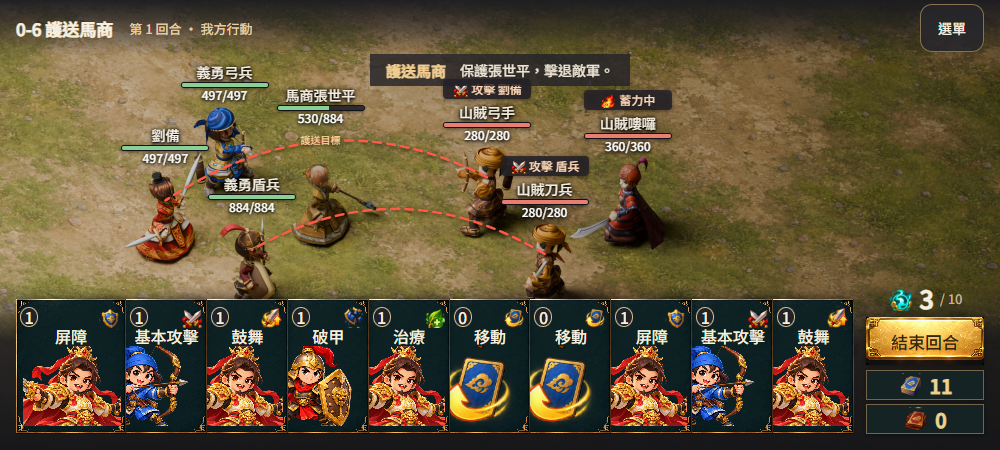
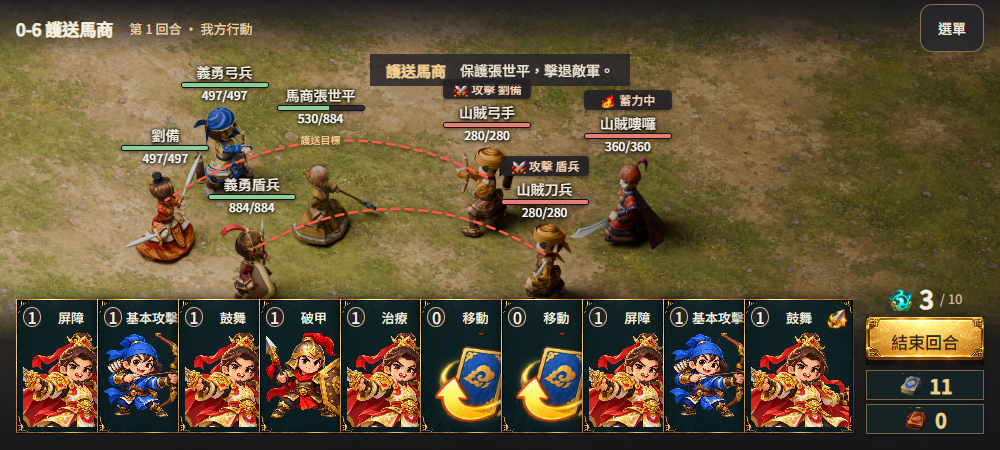
固定費用名稱圖示牌頭並恢復右覆左與圖像化詳情

Changed region(s): [[0.0, 0.6533, 0.868, 0.9644]]

diff --git a/docs/ui-commercial-review/battle-revision-04/battle.js b/docs/ui-commercial-review/battle-revision-04/battle.js
@@ -5,8 +5,8 @@ const units={liubei:['劉備',497,497,''],r_shield:['義勇盾兵',884,884,''],r
 const typeIcon=c=>c.name==='移動'?'draw':({shield:'armor',damage:'damage',heal:'heal',buff:'status_atkup',debuff:'status_armorbreak'}[c.cls]);
 const face=n=>`../../../client/Assets/Resources/ChibiSkin/face_${n}.png`;
 function fit(){const w=ratio==='20:9'?1000:800,wrap=document.querySelector('#wrap'),scene=document.querySelector('#scene');if(params.has('export')){wrap.style.width=w+'px';wrap.style.height='450px';return;}const scale=wrap.clientWidth/w;scene.style.transform=`scale(${scale})`;wrap.style.height=450*scale+'px';}
-function details(){const el=document.querySelector('#details');el.classList.toggle('empty',selected<0);if(selected<0){el.innerHTML='';return;}const c=cards[selected%cards.length];el.innerHTML=`<div class="detail-meta"><span>費用 ${c.cost}</span><span>${c.type}</span></div><h2>${c.name}</h2><div class="detail-owner">持有人 · ${c.owner}</div><p>${c.effect}</p><small class="note">${c.detail}</small>`;}
-function hand(){const el=document.querySelector('#hand'),w=el.clientWidth,step=Math.max(56,Math.min(120,(w-110)/Math.max(1,count-1)));el.innerHTML=Array.from({length:count},(_,i)=>{const c=cards[i%cards.length];return `<button class="card ${i===selected?'selected':''}" style="left:${i*step}px;z-index:${count-i};--peek:${i===0?110:Math.min(110,step)}px" data-card="${i}" aria-label="${c.name}，${c.type}，費用${c.cost}，持有人${c.owner}" aria-pressed="${i===selected}"><span class="cost">${c.cost}</span><span class="type ${c.cls}" title="${c.type}"><img src="../../../client/Assets/Resources/ChibiSkin/${typeIcon(c)}.png" alt="${c.type}"></span><span class="name">${c.name}</span><img class="card-art" src="../../../client/Assets/Resources/ChibiSkin/${c.name==='移動'?'draw':'bust_'+c.face}.png" alt=""></button>`;}).join('');el.querySelectorAll('button').forEach(b=>b.onclick=()=>{selected=selected===Number(b.dataset.card)?-1:Number(b.dataset.card);hand();details();document.querySelector('#status').textContent=selected<0?'已收回卡牌詳情。':'已查看 '+cards[selected%7].name+'；未執行出牌。';});}
+function details(){const el=document.querySelector('#details');el.classList.toggle('empty',selected<0);if(selected<0){el.innerHTML='';return;}const c=cards[selected%cards.length],value={shield:'111%',damage:'100%',heal:'167%',buff:'強化',debuff:'削弱'}[c.cls],move=c.name==='移動',target=move?'可達位置':['damage','debuff'].includes(c.cls)?'敵方單體':'友方單體';el.innerHTML=`<div class="skill-heading"><span class="detail-cost">${c.cost}</span><h2>${c.name}</h2><img src="../../../client/Assets/Resources/ChibiSkin/${typeIcon(c)}.png" alt="${c.type}"></div><div class="skill-portrait"><img src="../../../client/Assets/Resources/ChibiSkin/${move?'draw':'bust_'+c.face}.png" alt=""><span>${c.owner}</span></div><div class="effect-value"><img src="../../../client/Assets/Resources/ChibiSkin/${typeIcon(c)}.png" alt=""><div><small>${c.type}</small><strong>${move?'走位':value}</strong></div></div><div class="effect-target">${target}</div>`;}
+function hand(){const el=document.querySelector('#hand'),w=el.clientWidth,step=Math.max(56,Math.min(120,(w-110)/Math.max(1,count-1)));el.innerHTML=Array.from({length:count},(_,i)=>{const c=cards[i%cards.length];return `<button class="card ${i===selected?'selected':''}" style="left:${i*step}px;z-index:${i}" data-card="${i}" aria-label="${c.name}，${c.type}，費用${c.cost}，持有人${c.owner}" aria-pressed="${i===selected}"><span class="cost">${c.cost}</span><span class="type ${c.cls}" title="${c.type}"><img src="../../../client/Assets/Resources/ChibiSkin/${typeIcon(c)}.png" alt="${c.type}"></span><span class="name">${c.name}</span><img class="card-art" src="../../../client/Assets/Resources/ChibiSkin/${c.name==='移動'?'draw':'bust_'+c.face}.png" alt=""></button>`;}).join('');el.querySelectorAll('button').forEach(b=>b.onclick=()=>{selected=selected===Number(b.dataset.card)?-1:Number(b.dataset.card);hand();details();document.querySelector('#status').textContent=selected<0?'已收回卡牌詳情。':'已查看 '+cards[selected%7].name+'；未執行出牌。';});}
 let anchors={};
 function enemyIntent(id){if(!id.startsWith('bandit'))return '';const charge=id==='bandit_shaman',text=charge?'蓄力中':id==='bandit_archer'?'攻擊 劉備':'攻擊 盾兵';return `<span class="intent"><img src="../../../client/Assets/Resources/ChibiSkin/${charge?'charge':'damage'}.png" alt="">${text}</span>`;}
 function aimLines(){const w=ratio==='20:9'?1000:800,points=anchors[ratio]||[],p=id=>points.find(a=>a.id===id),arcs=[['bandit_archer','liubei'],['bandit_grunt','r_shield']].map(([from,to])=>{const a=p(from),b=p(to);if(!a||!b)return '';const x=a.x*w,y=a.y*450+35,tx=b.x*w,ty=b.y*450+36,cx=(x+tx)/2,cy=Math.min(y,ty)-84;return `<path d="M${x},${y} Q${cx},${cy} ${tx},${ty}" />`;}).join('');document.querySelector('#field').insertAdjacentHTML('afterbegin',`<svg class="aim-lines" viewBox="0 0 ${w} 450" aria-label="敵人瞄準目標示意">${arcs}</svg>`);}

diff --git a/docs/ui-commercial-review/battle-revision-04/classic-hand.css b/docs/ui-commercial-review/battle-revision-04/classic-hand.css
@@ -1,3 +1,4 @@
 .bottom{height:165px}#hand{height:150px}.card,.card.selected{height:135px;background:#102024;border-radius:1px;border-image-source:url('../../../client/Assets/Resources/ChibiSkin/panel.png');border-image-slice:96 fill;border-image-width:7px;box-shadow:-3px 0 8px #0006}.card .name,.card.selected .name{top:27px;font-size:16px;line-height:18px}.card-art{position:absolute;left:6px;right:6px;top:46px;width:98px;height:67px;object-fit:contain;pointer-events:none}.card .owner,.card.selected .owner{bottom:7px;color:#eee1ba}.card .owner img{display:none}.card .type{color:#f7d394}.intent{display:flex;justify-content:center;align-items:center;gap:3px;color:#ffd7b4;font-size:12px;background:#252127d9;border-radius:4px;margin-top:3px;line-height:20px;height:20px}.intent img{width:16px;height:16px;object-fit:contain}.hud{z-index:2}.aim-lines{position:absolute;inset:0;width:100%;height:450px;pointer-events:none;z-index:1;overflow:visible}.aim-lines>path{stroke:#ff5a46;stroke-width:2.5;fill:none;opacity:.95;filter:drop-shadow(0 1px 2px #0008)}
 .card-art{object-fit:cover;object-position:50% 20%}.card:has(.type.buff) .card-art[src$="draw.png"]{object-fit:contain}
 .card .owner{display:none}.card .type{width:22px;height:22px;top:6px;right:4px}.card .type img{width:100%;height:100%;object-fit:contain}.card-art{height:80px}.intent{margin-top:0;margin-bottom:3px}.objective{position:absolute;top:54px;left:50%;transform:translateX(-50%);height:32px;padding:0 16px;display:flex;align-items:center;gap:14px;background:#232227ce;color:#eee5d5;border-radius:0;white-space:nowrap;font-size:14px;z-index:3}.objective b{font-size:15px;color:#f0cc8e}#details.empty{display:none}.aim-lines>path{stroke-dasharray:8 6;stroke-linecap:round;animation:aim-pulse 1s ease-in-out infinite}@keyframes aim-pulse{0%,100%{opacity:.25}50%{opacity:1}}.turn #end{border-image-source:url("../../../client/Assets/Resources/ChibiSkin/gold.png");border-image-slice:100 100 60 60 fill;border-image-width:8px;border-radius:0;color:#382610}.original-piles{display:flex;flex-direction:column;gap:4px;margin-top:5px}.original-piles button{display:flex;align-items:center;justify-content:center;gap:8px;width:118px;height:30px;border:1px solid #736549;border-radius:0;background:#152325;color:#ead194}.original-piles img{width:24px;height:24px;object-fit:contain}.original-piles b{font-size:20px}
+.card .cost{left:6px;top:7px;width:18px;min-width:18px}.card .name,.card.selected .name{left:27px;right:27px;top:7px;height:22px;line-height:22px;font-size:13px;white-space:nowrap;overflow:hidden}.card .type{right:4px;top:7px;width:22px;height:22px}.card-art{top:33px;height:94px}#details{padding:12px}.skill-heading{display:flex;align-items:center;gap:8px}.skill-heading .detail-cost{width:22px;height:22px;line-height:20px;text-align:center;border:1px solid #d5b279;border-radius:50%;font-size:16px}.skill-heading h2{flex:1;font-size:21px!important;margin:0!important}.skill-heading>img{width:25px;height:25px;object-fit:contain}.skill-portrait{height:98px;position:relative;overflow:hidden;margin:10px -3px;background:linear-gradient(transparent,#b1874d14)}.skill-portrait>img{width:100%;height:100%;object-fit:cover;object-position:50% 18%}.skill-portrait>span{position:absolute;left:0;right:0;bottom:0;text-align:center;font-size:13px;background:linear-gradient(transparent,#222227e0);padding-top:12px}.effect-value{display:flex;gap:12px;justify-content:center;align-items:center;padding:8px 0}.effect-value>img{width:36px;height:36px;object-fit:contain}.effect-value small{display:block;font-size:12px;color:#c4b395}.effect-value strong{display:block;font-size:28px;line-height:32px;font-weight:normal;color:#f6d08b}.effect-target{font-size:13px;text-align:center;color:#cfbf9f;padding:6px;border-top:1px solid #8d76552b}

diff --git a/client/Assets/Resources/BattleArt/README.md b/client/Assets/Resources/BattleArt/README.md
@@ -27,3 +27,6 @@
 
 ## 最新六點修訂
 牌底持有人文字移除，只在右側詳情保留。敵人意圖放在名稱上方（先Intent，再Name／HP），不能只用USS換序，須由程式端调整HUD子元素順序。任務提示常駐畫面中央偏上，扁平長條、無教學提示；與右側選牌詳情分開。右下沿用cost／gold／pile_draw／pile_discard原素材與直列配置。牌型使用armor／damage／heal／status_atkup／status_armorbreak／draw既有圖示，文字僅作可存取標籤或詳情。紅色Bezier無箭頭，EnemyAim shader以UV產生虛線並以1秒週期閃爍；不新增敵人決策。
+
+## 固定牌頭與圖像化詳情修訂
+牌頭固定「費用／技能名稱／效果ICON」同一列。名稱不依露出寬度重排、不壓縮到牌邊；正常覆蓋順序是右牌蓋左牌，只有選中牌抬高並置頂。原有Unity LayoutHand／遍歷建立順序可沿用，不反轉層級。右側詳情採技能標題、費用徽章、持有人立繪、效果ICON與大數值、簡短目標標籤；移除冗長效果段落，正式版從實際卡牌資料取得完整數值與附加效果，不能照拼稿占位創造規則。此修訂取代早期「左蓋右且保留露出資訊欄」規格。
